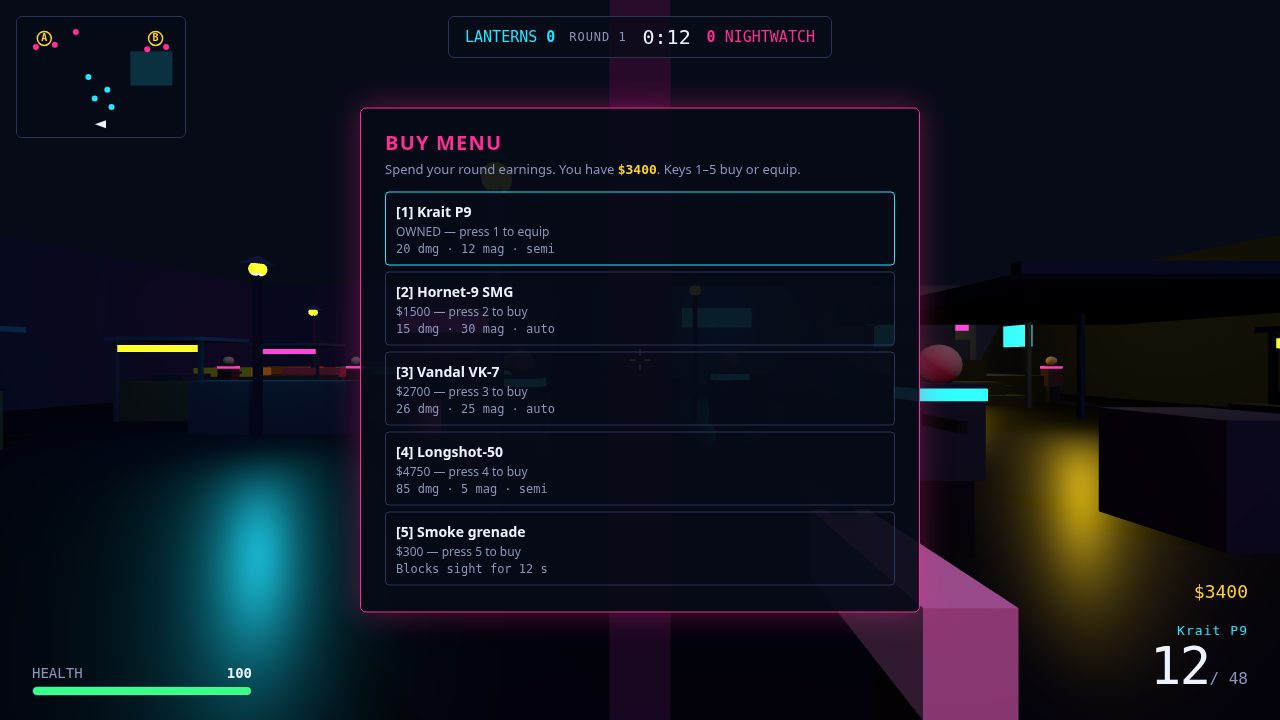
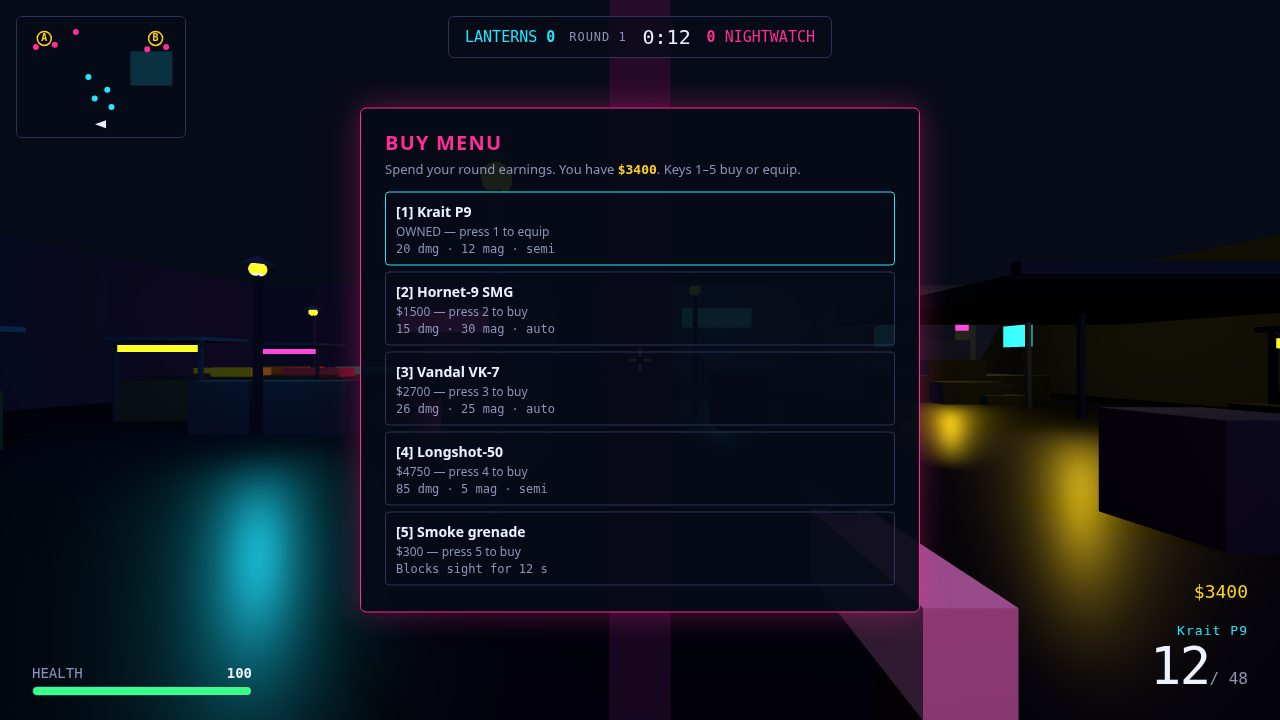
Fix: bots hold during buy phase; viewmodel + staging polish

diff --git a/game/src/main.js b/game/src/main.js
@@ -247,6 +247,8 @@ function step(dt) {
   if (state.phase === 'combat' || state.phase === 'buy') {
     player.step(dt, keys);
     weapons.step(dt);
+  }
+  if (state.phase === 'combat') {
     botCtx.hitMeshes = bots.hitMeshes();
     bots.step(dt, botCtx);
     combat.step(dt, state);
